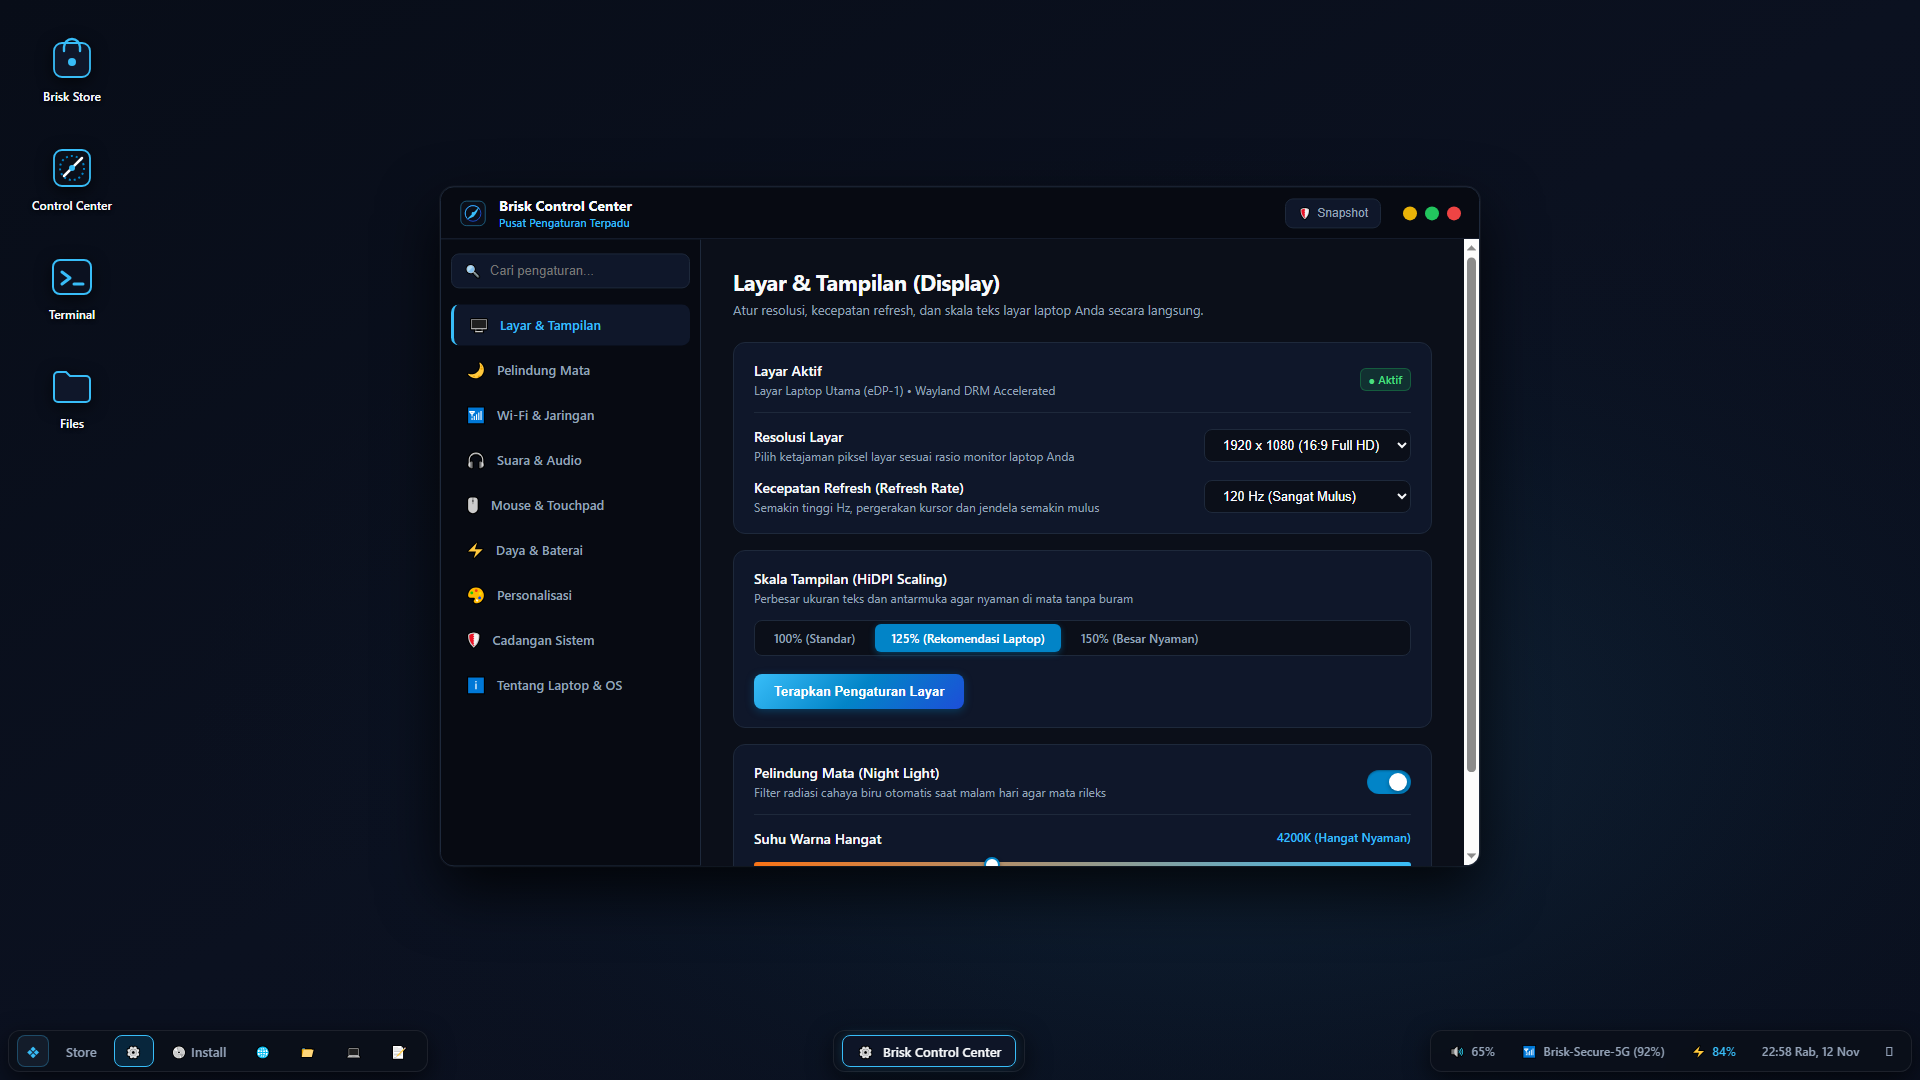
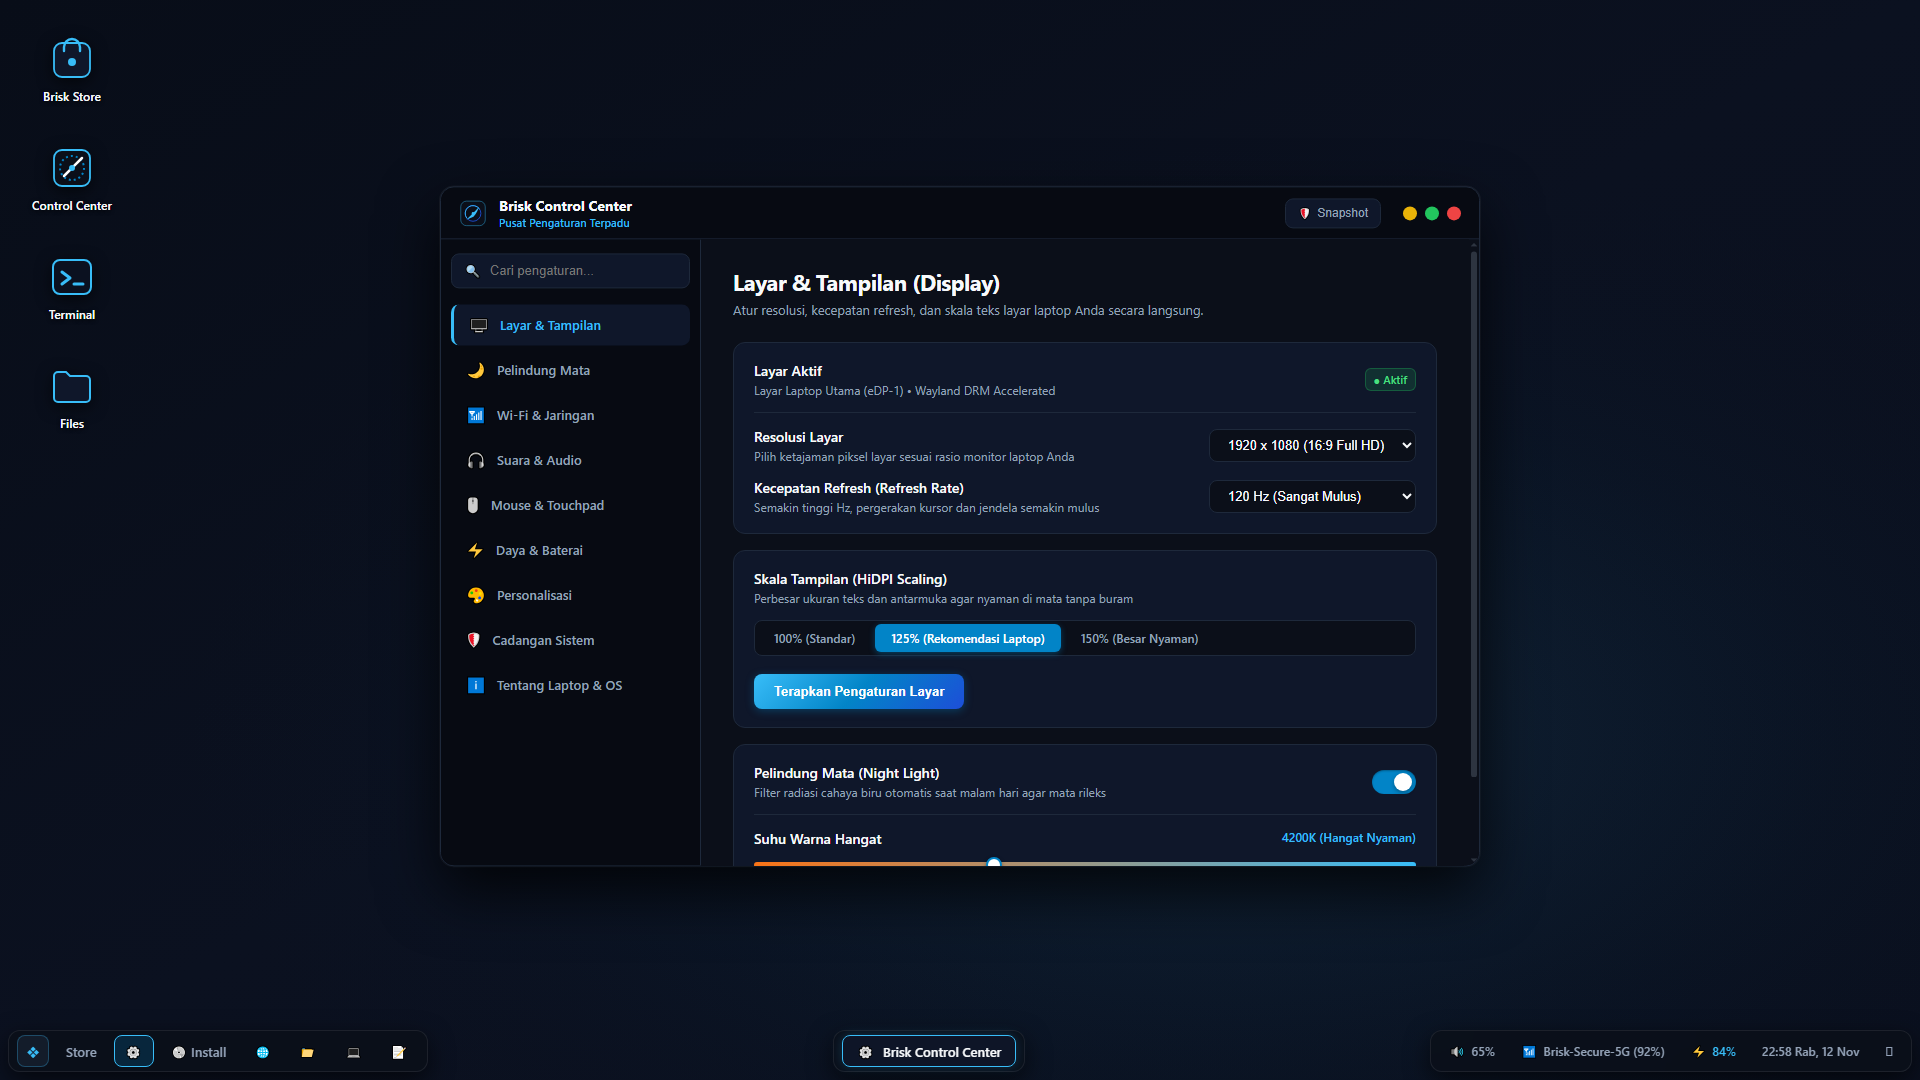
feat(ui): refine Floating OSD HUD with universal hardware labels and implement system-wide Night Glass Ghost Scrollbars

Changed region(s): [[0.6562, 0.2139, 0.7812, 0.7944], [0.625, 0.3972, 0.7188, 0.4278], [0.6562, 0.4583, 0.7188, 0.4889]]

diff --git a/docs/previews/preview-osd-hud.html b/docs/previews/preview-osd-hud.html
@@ -130,16 +130,59 @@
     .dot-min { background: #eab308; }
     .dot-max { background: #22c55e; }
 
+    /* -------------------------------------------------------------------------
+     * Night Glass Ghost Scrollbar
+     * ------------------------------------------------------------------------- */
+    ::-webkit-scrollbar {
+      width: 6px;
+      height: 6px;
+    }
+    ::-webkit-scrollbar-track {
+      background: transparent;
+    }
+    ::-webkit-scrollbar-thumb {
+      background: rgba(148, 163, 184, 0.25);
+      border-radius: 9999px;
+    }
+    ::-webkit-scrollbar-thumb:hover {
+      background: rgba(56, 189, 248, 0.6);
+    }
+    * {
+      scrollbar-width: thin;
+      scrollbar-color: rgba(148, 163, 184, 0.25) transparent;
+    }
+
     .app-content {
+      flex: 1;
+      overflow-y: scroll;
       padding: 24px;
-      color: #64748b;
+      color: #94a3b8;
       font-family: "JetBrains Mono", monospace;
       font-size: 13px;
       line-height: 1.6;
     }
-    .code-accent { color: #38bdf8; }
+    .app-content::-webkit-scrollbar {
+      width: 6px;
+    }
+    .app-content::-webkit-scrollbar-track {
+      background: transparent;
+    }
+    .app-content::-webkit-scrollbar-thumb {
+      background: rgba(148, 163, 184, 0.25);
+      border-radius: 9999px;
+    }
+    .app-content::-webkit-scrollbar-thumb:hover {
+      background: rgba(56, 189, 248, 0.6);
+    }
+    .code-accent { color: #38bdf8; font-weight: 600; }
     .code-green { color: #4ade80; }
-    .code-comment { color: #475569; }
+    .code-comment { color: #475569; font-style: italic; }
+    .code-keyword { color: #f43f5e; font-weight: 600; }
+    .code-fn { color: #38bdf8; }
+    .code-str { color: #34d399; }
+    .code-num { color: #fbbf24; }
+    .code-line { display: flex; gap: 16px; margin-bottom: 2px; }
+    .code-ln { color: #334155; min-width: 24px; text-align: right; user-select: none; }
 
     /* -------------------------------------------------------------------------
      * FLOATING OSD HUD PILL (Center Stage Star Element)
@@ -204,15 +247,6 @@
       color: #94a3b8;
       text-transform: uppercase;
       letter-spacing: 0.08em;
-    }
-    .osd-fn-hint {
-      font-size: 10px;
-      font-weight: 600;
-      color: #38bdf8;
-      background: rgba(56, 189, 248, 0.15);
-      padding: 1px 6px;
-      border-radius: 4px;
-      letter-spacing: 0.02em;
     }
 
     .osd-track {
@@ -452,13 +486,57 @@
       </div>
     </div>
     <div class="app-content">
-      <p class="code-comment">// BriskOS 1.0 LTS Kernel Telemetry &amp; Flight Center</p>
-      <p><span class="code-accent">brisk info</span></p>
-      <p class="code-green">✓ System Architecture: x86_64 Debian 12 (Bookworm)</p>
-      <p class="code-green">✓ Wayland Compositor: Labwc 0.6.5 (DRM Accelerated)</p>
-      <p class="code-green">✓ Memory Consumption: 184 MiB / 16384 MiB (Idle 1.1%)</p>
-      <p class="code-green">✓ Power Sentinel Profile: ⚡ Turbo Performance (AC Online)</p>
-      <p class="code-comment">// Hardware Media Event: Keypress Fn + F12 detected</p>
+      <div class="code-line"><span class="code-ln">1</span><span><span class="code-comment"># ==============================================================================</span></span></div>
+      <div class="code-line"><span class="code-ln">2</span><span><span class="code-comment"># Brisk Floating OSD HUD (brisk-osd) — Wayland Layer Shell Daemon</span></span></div>
+      <div class="code-line"><span class="code-ln">3</span><span><span class="code-comment"># Pure PyGObject / GTK3 + LayerShell • Sub-18 MB RAM active, 0 MB idle</span></span></div>
+      <div class="code-line"><span class="code-ln">4</span><span><span class="code-comment"># ==============================================================================</span></span></div>
+      <div class="code-line"><span class="code-ln">5</span><span><span class="code-keyword">import</span> os, sys, json, time, socket, subprocess, threading</span></div>
+      <div class="code-line"><span class="code-ln">6</span><span><span class="code-keyword">import</span> gi</span></div>
+      <div class="code-line"><span class="code-ln">7</span><span>gi.<span class="code-fn">require_version</span>(<span class="code-str">"Gtk"</span>, <span class="code-str">"3.0"</span>)</span></div>
+      <div class="code-line"><span class="code-ln">8</span><span>gi.<span class="code-fn">require_version</span>(<span class="code-str">"GtkLayerShell"</span>, <span class="code-str">"0.1"</span>)</span></div>
+      <div class="code-line"><span class="code-ln">9</span><span><span class="code-keyword">from</span> gi.repository <span class="code-keyword">import</span> Gtk, Gdk, GLib, GtkLayerShell</span></div>
+      <div class="code-line"><span class="code-ln">10</span><span></span></div>
+      <div class="code-line"><span class="code-ln">11</span><span><span class="code-keyword">class</span> <span class="code-accent">BriskOSDWindow</span>(Gtk.Window):</span></div>
+      <div class="code-line"><span class="code-ln">12</span><span>    <span class="code-keyword">def</span> <span class="code-fn">__init__</span>(self, init_data):</span></div>
+      <div class="code-line"><span class="code-ln">13</span><span>        <span class="code-fn">super</span>().__init__(type=Gtk.WindowType.TOPLEVEL)</span></div>
+      <div class="code-line"><span class="code-ln">14</span><span>        self.<span class="code-fn">set_title</span>(<span class="code-str">"Brisk OSD HUD"</span>)</span></div>
+      <div class="code-line"><span class="code-ln">15</span><span>        self.<span class="code-fn">set_decorated</span>(<span class="code-keyword">False</span>)</span></div>
+      <div class="code-line"><span class="code-ln">16</span><span>        self.<span class="code-fn">set_resizable</span>(<span class="code-keyword">False</span>)</span></div>
+      <div class="code-line"><span class="code-ln">17</span><span>        self.<span class="code-fn">set_keep_above</span>(<span class="code-keyword">True</span>)</span></div>
+      <div class="code-line"><span class="code-ln">18</span><span></span></div>
+      <div class="code-line"><span class="code-ln">19</span><span>        <span class="code-comment"># Top-Center Anchor &amp; Margin 48 on Wayland LayerShell Overlay</span></span></div>
+      <div class="code-line"><span class="code-ln">20</span><span>        GtkLayerShell.<span class="code-fn">init_for_window</span>(self)</span></div>
+      <div class="code-line"><span class="code-ln">21</span><span>        GtkLayerShell.<span class="code-fn">set_layer</span>(self, GtkLayerShell.Layer.OVERLAY)</span></div>
+      <div class="code-line"><span class="code-ln">22</span><span>        GtkLayerShell.<span class="code-fn">set_anchor</span>(self, GtkLayerShell.Edge.TOP, <span class="code-keyword">True</span>)</span></div>
+      <div class="code-line"><span class="code-ln">23</span><span>        GtkLayerShell.<span class="code-fn">set_margin</span>(self, GtkLayerShell.Edge.TOP, <span class="code-num">48</span>)</span></div>
+      <div class="code-line"><span class="code-ln">24</span><span>        GtkLayerShell.<span class="code-fn">set_keyboard_interactivity</span>(self, <span class="code-keyword">False</span>)</span></div>
+      <div class="code-line"><span class="code-ln">25</span><span></span></div>
+      <div class="code-line"><span class="code-ln">26</span><span>        <span class="code-comment"># UI Pill Container &amp; Labels</span></span></div>
+      <div class="code-line"><span class="code-ln">27</span><span>        self.pill_box = Gtk.Box(orientation=Gtk.Orientation.HORIZONTAL, spacing=<span class="code-num">0</span>)</span></div>
+      <div class="code-line"><span class="code-ln">28</span><span>        self.pill_box.<span class="code-fn">get_style_context</span>().<span class="code-fn">add_class</span>(<span class="code-str">"osd-pill"</span>)</span></div>
+      <div class="code-line"><span class="code-ln">29</span><span>        self.<span class="code-fn">add</span>(self.pill_box)</span></div>
+      <div class="code-line"><span class="code-ln">30</span><span></span></div>
+      <div class="code-line"><span class="code-ln">31</span><span>        self.lbl_title = Gtk.Label(xalign=<span class="code-num">0</span>)</span></div>
+      <div class="code-line"><span class="code-ln">32</span><span>        self.lbl_title.<span class="code-fn">get_style_context</span>().<span class="code-fn">add_class</span>(<span class="code-str">"osd-title"</span>)</span></div>
+      <div class="code-line"><span class="code-ln">33</span><span>        self.progress = Gtk.ProgressBar()</span></div>
+      <div class="code-line"><span class="code-ln">34</span><span>        self.<span class="code-fn">update_hud</span>(init_data)</span></div>
+      <div class="code-line"><span class="code-ln">35</span><span>        self.<span class="code-fn">show_all</span>()</span></div>
+      <div class="code-line"><span class="code-ln">36</span><span></span></div>
+      <div class="code-line"><span class="code-ln">37</span><span>    <span class="code-keyword">def</span> <span class="code-fn">update_hud</span>(self, data):</span></div>
+      <div class="code-line"><span class="code-ln">38</span><span>        htype = data.<span class="code-fn">get</span>(<span class="code-str">"type"</span>, <span class="code-str">"volume"</span>)</span></div>
+      <div class="code-line"><span class="code-ln">39</span><span>        val = <span class="code-fn">max</span>(<span class="code-num">0</span>, <span class="code-fn">min</span>(<span class="code-num">100</span>, <span class="code-fn">int</span>(data.<span class="code-fn">get</span>(<span class="code-str">"value"</span>, <span class="code-num">75</span>))))</span></div>
+      <div class="code-line"><span class="code-ln">40</span><span>        <span class="code-keyword">if</span> htype == <span class="code-str">"volume"</span>:</span></div>
+      <div class="code-line"><span class="code-ln">41</span><span>            self.lbl_title.<span class="code-fn">set_text</span>(<span class="code-str">"VOLUME"</span>)</span></div>
+      <div class="code-line"><span class="code-ln">42</span><span>            self.lbl_icon.<span class="code-fn">set_text</span>(<span class="code-str">"🔊"</span>)</span></div>
+      <div class="code-line"><span class="code-ln">43</span><span>        <span class="code-keyword">elif</span> htype == <span class="code-str">"brightness"</span>:</span></div>
+      <div class="code-line"><span class="code-ln">44</span><span>            self.lbl_title.<span class="code-fn">set_text</span>(<span class="code-str">"KECERAHAN"</span>)</span></div>
+      <div class="code-line"><span class="code-ln">45</span><span>            self.lbl_icon.<span class="code-fn">set_text</span>(<span class="code-str">"☀"</span>)</span></div>
+      <div class="code-line"><span class="code-ln">46</span><span>        self.progress.<span class="code-fn">set_fraction</span>(val / <span class="code-num">100.0</span>)</span></div>
+      <div class="code-line"><span class="code-ln">47</span><span>        GLib.<span class="code-fn">timeout_add</span>(<span class="code-num">1200</span>, self.<span class="code-fn">_on_timeout</span>)</span></div>
+      <div class="code-line"><span class="code-ln">48</span><span></span></div>
+      <div class="code-line"><span class="code-ln">49</span><span>    <span class="code-keyword">def</span> <span class="code-fn">_on_timeout</span>(self):</span></div>
+      <div class="code-line"><span class="code-ln">50</span><span>        Gtk.<span class="code-fn">main_quit</span>()</span></div>
+      <div class="code-line"><span class="code-ln">51</span><span>        <span class="code-keyword">return</span> <span class="code-keyword">False</span></span></div>
     </div>
   </div>
 
@@ -473,8 +551,7 @@
       </div>
       <div class="osd-center-content">
         <div class="osd-header-row">
-          <span class="osd-title-text">Volume Master • PipeWire</span>
-          <span class="osd-fn-hint">Fn + F12</span>
+          <span class="osd-title-text">VOLUME</span>
         </div>
         <div class="osd-track">
           <div class="osd-bar-fill"></div>
@@ -490,8 +567,7 @@
       </div>
       <div class="osd-center-content">
         <div class="osd-header-row">
-          <span class="osd-title-text" style="color: #cbd5e1;">Kecerahan Layar</span>
-          <span class="osd-fn-hint" style="color: #fbbf24; background: rgba(251, 191, 36, 0.15);">Fn + F6</span>
+          <span class="osd-title-text" style="color: #cbd5e1;">KECERAHAN</span>
         </div>
         <div class="osd-track">
           <div class="osd-bar-fill-amber"></div>
@@ -547,3 +623,4 @@
 
 </body>
 </html>
+

diff --git a/docs/previews/preview-control-center.html b/docs/previews/preview-control-center.html
@@ -22,6 +22,43 @@
     }
 
     /* -------------------------------------------------------------------------
+     * Night Glass Ghost Scrollbars (System-wide GTK3/GTK4 & Web Parity)
+     * ------------------------------------------------------------------------- */
+    * {
+      scrollbar-width: thin;
+      scrollbar-color: rgba(148, 163, 184, 0.25) transparent;
+    }
+
+    ::-webkit-scrollbar,
+    *::-webkit-scrollbar {
+      width: 6px;
+      height: 6px;
+    }
+    ::-webkit-scrollbar-track,
+    *::-webkit-scrollbar-track {
+      background: transparent;
+      border: none;
+    }
+    ::-webkit-scrollbar-thumb,
+    *::-webkit-scrollbar-thumb {
+      background-color: rgba(148, 163, 184, 0.25);
+      border-radius: 9999px;
+      border: none;
+    }
+    ::-webkit-scrollbar-thumb:hover,
+    *::-webkit-scrollbar-thumb:hover {
+      background-color: rgba(56, 189, 248, 0.6);
+    }
+    ::-webkit-scrollbar-thumb:active,
+    *::-webkit-scrollbar-thumb:active {
+      background-color: #38bdf8;
+    }
+    ::-webkit-scrollbar-corner,
+    *::-webkit-scrollbar-corner {
+      background: transparent;
+    }
+
+    /* -------------------------------------------------------------------------
      * Desktop Wallpaper Layer
      * ------------------------------------------------------------------------- */
     .wallpaper-container {

diff --git a/config/includes.chroot/etc/skel/.config/gtk-3.0/gtk.css b/config/includes.chroot/etc/skel/.config/gtk-3.0/gtk.css
@@ -1,0 +1,30 @@
+/* BriskOS Night Glass Ghost Scrollbars */
+scrollbar {
+  background-color: transparent;
+  -GtkScrollbar-has-backward-stepper: 0;
+  -GtkScrollbar-has-forward-stepper: 0;
+}
+
+scrollbar trough {
+  background-color: transparent;
+  border: none;
+}
+
+scrollbar slider {
+  min-width: 6px;
+  min-height: 6px;
+  border-radius: 9999px;
+  background-color: rgba(148, 163, 184, 0.25);
+  border: none;
+  margin: 2px;
+}
+
+scrollbar slider:hover {
+  min-width: 9px;
+  min-height: 9px;
+  background-color: rgba(56, 189, 248, 0.6);
+}
+
+scrollbar slider:active {
+  background-color: #38bdf8;
+}

diff --git a/config/includes.chroot/etc/skel/.config/gtk-4.0/gtk.css b/config/includes.chroot/etc/skel/.config/gtk-4.0/gtk.css
@@ -1,0 +1,30 @@
+/* BriskOS Night Glass Ghost Scrollbars */
+scrollbar {
+  background-color: transparent;
+  -GtkScrollbar-has-backward-stepper: 0;
+  -GtkScrollbar-has-forward-stepper: 0;
+}
+
+scrollbar trough {
+  background-color: transparent;
+  border: none;
+}
+
+scrollbar slider {
+  min-width: 6px;
+  min-height: 6px;
+  border-radius: 9999px;
+  background-color: rgba(148, 163, 184, 0.25);
+  border: none;
+  margin: 2px;
+}
+
+scrollbar slider:hover {
+  min-width: 9px;
+  min-height: 9px;
+  background-color: rgba(56, 189, 248, 0.6);
+}
+
+scrollbar slider:active {
+  background-color: #38bdf8;
+}
